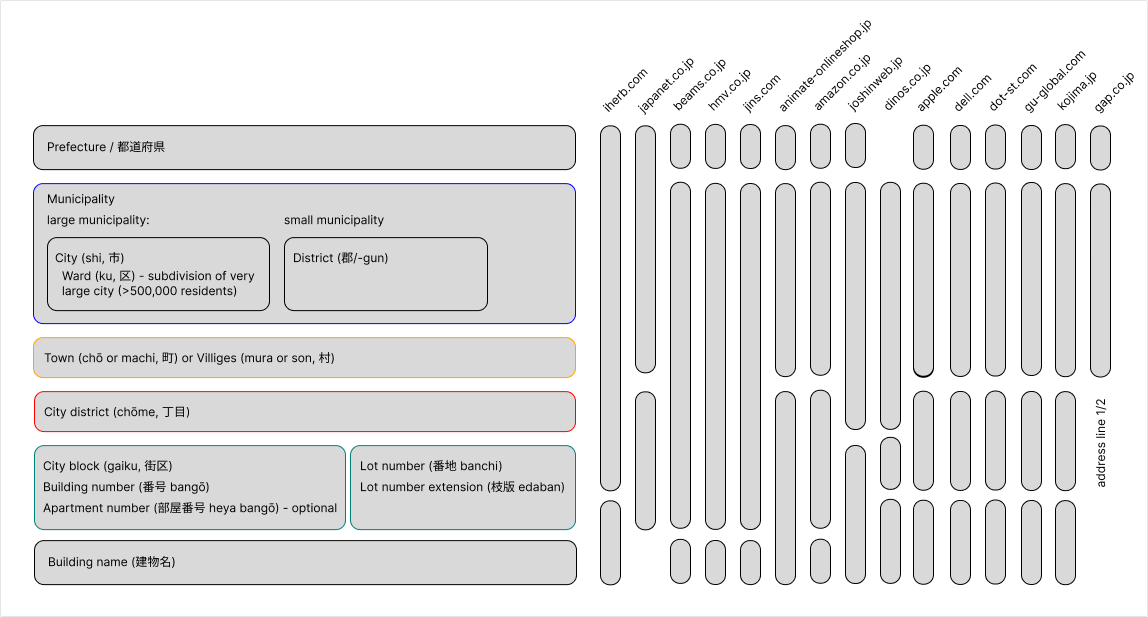
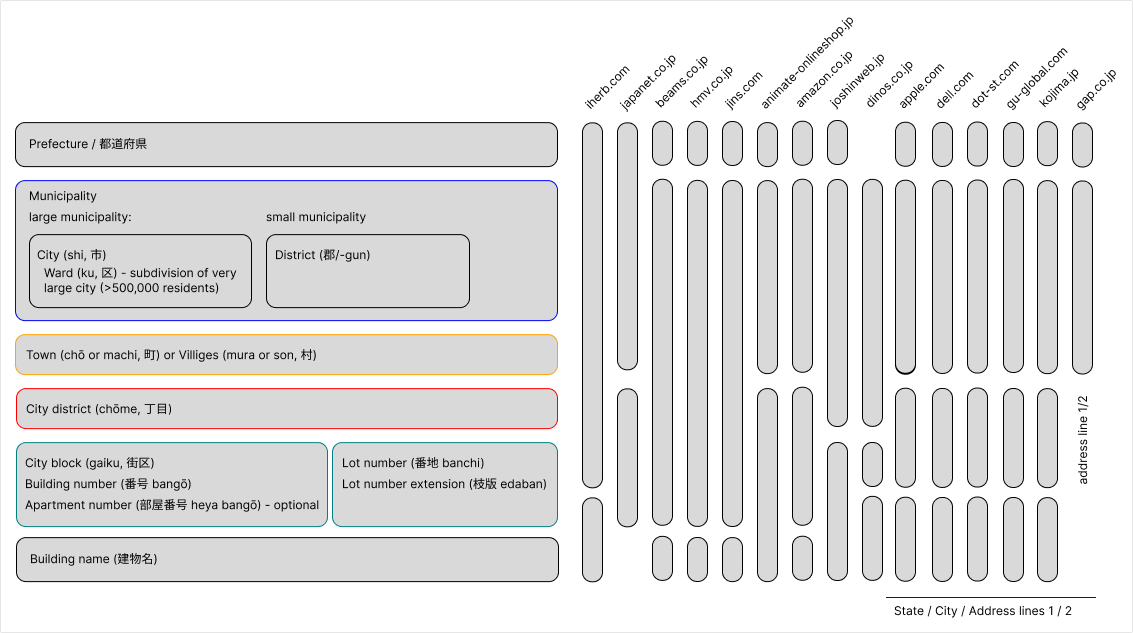
More work on Japan

diff --git a/docs/index.html b/docs/index.html
@@ -20666,7 +20666,49 @@ added by me for the western eye that cannot parse kanji characters):
 <p>
   We observe the following field groups:<br>
   <img src="jp-fieldgroups.png">
+  <!-- go/tyaso -->
 </p>
+
+<p>There are many different ways to define field types. For example:</p>
+<ul>
+  <li>
+  <img src="jp-possible-representations.png"><br>
+  I have to admit that it is not a proper reflection of what an address-levelX
+  should be (a shi, gun and machi should be different levels from a political
+  perspective). It's rater a reflection of what websites need. It also relies on
+  the slightly awkward grouping of address-level3 and street-location into an
+  address-line1 (typically address-levelX would not be part of an
+  address-lineX).
+  </li>
+  <li>
+  Following the information from the
+  <a href="https://www.sljfaq.org/afaq/addresses.html">sci.lang.japan FAQ</a>,
+  there can be 5 levels from Prefecture to Chōme. We might call
+  these address-level[1-5] and then ask websites to label their fields with
+  multiple levels.
+  </li>
+  <li>
+  We could decide to only support the break down used by apple.com, dell.com,
+  dot-st.com, gu-global.com, kojima.jp and consider the four components
+  address-level1, address-level2, street-address1, street-address2.
+  </li>
+  <li>
+  We could go fully custom and have a different field type naming scheme for
+  Japan.
+  </li>
+</ul>
+<p>
+  I'd be curious to hear ideas of other representations.
+</p>
+
+<p>
+  The following are recommended reading on Japanese addresses:
+</p>
+<ul>
+  <li><a href="https://www.sljfaq.org/afaq/addresses.html">sci.lang.japan FAQ</a></li>
+  <li><a href="https://help.sap.com/doc/7ac66320ca514acc89396a367db6dba8/4.2.10/en-US/e54130a47ee51014a997d681b0e91070.html">SAP Data Quality Management SDK</a></li>
+  <li><a href="https://resources.realestate.co.jp/living/how-to-read-a-japanese-address">How to read a Japanese address</a></li>
+</li>
 
 <h4>Missing field types</h4>
 <p>The following cases are currently missing in the autocomplete spec and

diff --git a/structured_analysis/data/sites/jp/_jp_preamble.html b/structured_analysis/data/sites/jp/_jp_preamble.html
@@ -105,6 +105,47 @@ added by me for the western eye that cannot parse kanji characters):
   <!-- go/tyaso -->
 </p>
 
+<p>There are many different ways to define field types. For example:</p>
+<ul>
+  <li>
+  <img src="jp-possible-representations.png"><br>
+  I have to admit that it is not a proper reflection of what an address-levelX
+  should be (a shi, gun and machi should be different levels from a political
+  perspective). It's rater a reflection of what websites need. It also relies on
+  the slightly awkward grouping of address-level3 and street-location into an
+  address-line1 (typically address-levelX would not be part of an
+  address-lineX).
+  </li>
+  <li>
+  Following the information from the
+  <a href="https://www.sljfaq.org/afaq/addresses.html">sci.lang.japan FAQ</a>,
+  there can be 5 levels from Prefecture to Chōme. We might call
+  these address-level[1-5] and then ask websites to label their fields with
+  multiple levels.
+  </li>
+  <li>
+  We could decide to only support the break down used by apple.com, dell.com,
+  dot-st.com, gu-global.com, kojima.jp and consider the four components
+  address-level1, address-level2, street-address1, street-address2.
+  </li>
+  <li>
+  We could go fully custom and have a different field type naming scheme for
+  Japan.
+  </li>
+</ul>
+<p>
+  I'd be curious to hear ideas of other representations.
+</p>
+
+<p>
+  The following are recommended reading on Japanese addresses:
+</p>
+<ul>
+  <li><a href="https://www.sljfaq.org/afaq/addresses.html">sci.lang.japan FAQ</a></li>
+  <li><a href="https://help.sap.com/doc/7ac66320ca514acc89396a367db6dba8/4.2.10/en-US/e54130a47ee51014a997d681b0e91070.html">SAP Data Quality Management SDK</a></li>
+  <li><a href="https://resources.realestate.co.jp/living/how-to-read-a-japanese-address">How to read a Japanese address</a></li>
+</li>
+
 <h4>Missing field types</h4>
 <p>The following cases are currently missing in the autocomplete spec and
 occurred on multiple sites:
